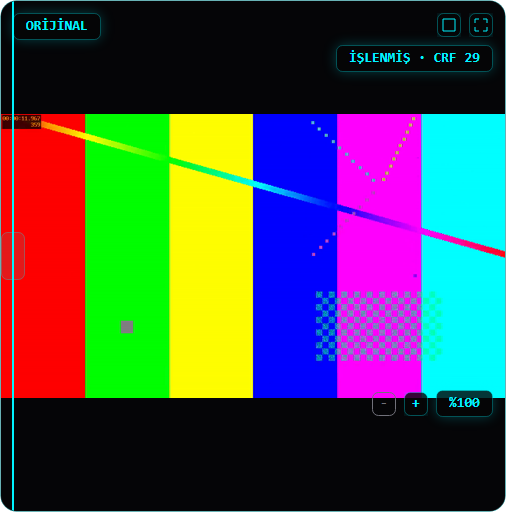
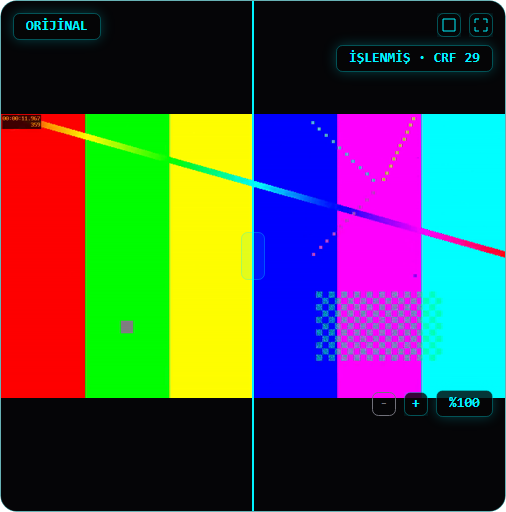
T189 tur 2: ayirici artik ortada, onizleme karesi belirlenimli
K8: ClearEntrance butun RenderTransform'lari siliyordu; karsilastirma panelinin
ayirici konumu giris canlandirmasi degil kalici tasiyici oldugu icin ayirici x=0'a
dusuyordu. Temizlik secici: TranslateTransform tasiyan dugum atlaniyor. Ayni tuzagin
ControlStrip.Thumb ve EncodeCursor yuzleri de kapsandi. Olcu: ayirici x=12 -> x=252,
karenin ortasi 253. On iki tam pencere karesi bayt bayt degismedi.

K9: onizleme beklemesi hic var olmayan bir Image ariyordu, 60 saniyelik ust siniri
doldurup o anki kareyi ciziyordu. Yol (a) secildi: oynatma durdurulup pencerenin son
karesi bekleniyor, sonra RequestAnimationFrame dongusu kapatiliyor. Uc ardisik tam
kosumda on dort karenin de sha256'si ayni. Kosum suresi 2m05 -> 39s.

K10: butun beklemeler Await'ten geciyor, sure dolarsa TimeoutException atiyor;
sessiz zaman asimi kalmadi. .sln borcu ve sonucu olcum belgesine yazildi.

Changed region(s): [[0.0, 0.0, 0.0593, 1.0], [0.4743, 0.375, 0.5336, 1.0], [0.4743, 0.0, 0.504, 0.3438]]

diff --git a/tools/VidShrink.Shot/Program.cs b/tools/VidShrink.Shot/Program.cs
@@ -7,12 +7,14 @@ using Avalonia;
 using Avalonia.Controls;
 using Avalonia.Headless;
 using Avalonia.Layout;
+using Avalonia.Media;
 using Avalonia.Media.Imaging;
 using Avalonia.Threading;
 using Avalonia.VisualTree;
 using VidShrink.App;
 using VidShrink.App.Localization;
 using VidShrink.Core;
+using VidShrink.Core.Playback;
 using VidShrink.Ffmpeg;
 
 namespace VidShrink.Shot;
@@ -90,9 +92,7 @@ public static class Program
                 LoadClip(window, clip);
                 SelectTab(window, "main.tab.shrink");
                 Relayout(window);
-                Pump(() => Named(window, "Preview").GetVisualDescendants()
-                    .OfType<Image>()
-                    .Any(image => image.Source is not null), PanelWaitSeconds);
+                FreezePreview(window);
             }),
 
             Shot(language, outDir, "oynatici", window =>
@@ -124,6 +124,16 @@ public static class Program
         }
 
         return false;
+    }
+
+    /// <summary>
+    /// <see cref="Pump"/>'in bekleyen bicimi. Sure dolarsa cekim yarim kareyle surmez,
+    /// durur: sure asimini yutan bir bekleme bos panel cizip cikis kodunu 0 birakiyordu.
+    /// </summary>
+    private static void Await(Func<bool> until, string what, int seconds = PanelWaitSeconds)
+    {
+        if (!Pump(until, seconds))
+            throw new TimeoutException($"{what}: {seconds} saniyede gelmedi.");
     }
 
     /// <summary>Tum pencereyi cizer.</summary>
@@ -251,11 +261,22 @@ public static class Program
     /// <summary>
     /// Giris canlandirmasi panellere <c>translateY</c> uyguluyor ve bassiz kosumda geri
     /// alinmiyor; her blok on piksel asagida cizilirdi.
+    ///
+    /// <para>Temizlik <b>secici</b>. Giris bicemi degeri <c>TransformOperations</c> olarak
+    /// kuruyor (<c>Themes/Controls.axaml</c>, <c>^.enter</c>), kalici konum tasiyicilari ise
+    /// kod arkasinda tutulan <see cref="TranslateTransform"/> ornekleri: karsilastirma
+    /// panelinin ayiricisi (<c>ComparisonPanel.SeparatorGrip</c>) ile serit tutamagi ve
+    /// kodlama imleci (<c>ControlStrip.Thumb</c>, <c>ControlStrip.EncodeCursor</c>)
+    /// konumlarini bunlardan aliyor. Hepsini birden silmek ayiriciyi panonun soluna,
+    /// x=0'a dusuruyordu; kare kullanicinin hic gormedigi bir durumu gosteriyordu.</para>
     /// </summary>
     private static void ClearEntrance(MainWindow window)
     {
         foreach (var node in window.GetVisualDescendants().OfType<Visual>())
+        {
+            if (node.RenderTransform is TranslateTransform) continue;
             node.RenderTransform = null;
+        }
     }
 
     /// <summary>
@@ -311,13 +332,67 @@ public static class Program
 
         var task = (Task)open.Invoke(player, new object?[] { clip, CancellationToken.None })!;
 
-        if (!Pump(() => task.IsCompleted, PanelWaitSeconds))
-            throw new TimeoutException($"Oynatici klibi {PanelWaitSeconds} saniyede acamadi.");
+        Await(() => task.IsCompleted, "Oynatici klibi acamadi");
 
         task.GetAwaiter().GetResult();
 
-        Pump(() => player.GetVisualDescendants().OfType<Image>().Any(image => image.Source is not null),
-            PanelWaitSeconds);
+        Await(() => player.GetVisualDescendants().OfType<Image>().Any(image => image.Source is not null),
+            "Oynaticinin ilk karesi");
+    }
+
+    /// <summary>
+    /// Sunum sayacinin degismeden gecmesi gereken yoklama sayisi. Yoklama araligi
+    /// <see cref="Pump"/>'te 25 ms; kirk yoklama bir saniye eder ve bassiz kosumun
+    /// yaklasik 5 Hz'lik sunum turundan rahatca uzundur.
+    /// </summary>
+    private const int PreviewIdleTicks = 40;
+
+    /// <summary>
+    /// Onizleme panelini penceresinin <b>son karesinde</b> dondurur.
+    ///
+    /// <para>Eski bekleme "kare gelir gelmez" ciziyordu; hangi alt-kare oldugunu makinenin
+    /// o anki yuku belirliyordu ve ayni ikiliyle yapilan uc kosumun ikincisi farkli bir kare
+    /// uretti. Sayarak da belirlenimli olmuyor: bassiz kosumda sunum turu ~5 Hz, boru 30 fps
+    /// besliyor, aradaki fark kare dusuruyor (olculdu: 150 karenin 69'u dusuruldu) ve hangi
+    /// karenin dusecegi yuke bagli.</para>
+    ///
+    /// <para>Belirlenimli olan tek nokta pencerenin sonu: boru pencereyi bitirdiginde son
+    /// kare halkanin en yenisidir, dusurulmez ve tuketici onu almadan halka bosalmaz. O
+    /// yuzden burada oynatma once <b>durdurulur</b> — <c>PanelHost.Follow</c> yalniz
+    /// oynatilirken sonraki pencereye geciyor, boylece pencere [0, 5) sabit kalir — sonra
+    /// sunum sayaci duruncaya kadar beklenir ve <c>_generation</c> artirilarak
+    /// <c>RequestAnimationFrame</c> dongusu kapatilir; cizime kadar panoya baska kare
+    /// konmaz. Yakalanan kare her kosumda ayni: pencerenin 150. karesi.</para>
+    ///
+    /// <para><c>Controls.IsPlaying</c> dogrudan yaziliyor, dugmeye basilmis gibi degil:
+    /// <c>PanelHost.ApplyPlayState</c> boruyu da duraklatirdi ve pencere hic bitmezdi.</para>
+    /// </summary>
+    private static void FreezePreview(MainWindow window)
+    {
+        var host = FieldValue(window, "_preview")
+            ?? throw new InvalidOperationException("Onizleme barindiricisi kurulmamis.");
+
+        Await(() => Read(host, "SourceStatus") is ComparisonSourceStatus { State: ComparisonSourceState.Oynuyor },
+            "Onizleme borusu");
+
+        SetProperty(Read(Named(window, "Preview"), "Controls"), "IsPlaying", false);
+
+        var last = -1L;
+        var idle = 0;
+        Await(() =>
+        {
+            var frames = (long)Read(host, "PresentedFrames");
+            if (frames != last)
+            {
+                last = frames;
+                idle = 0;
+                return false;
+            }
+
+            return ++idle >= PreviewIdleTicks;
+        }, "Onizleme penceresinin son karesi");
+
+        SetField(host, "_generation", (int)FieldValue(host, "_generation")! + 1);
     }
 
     /// <summary>
@@ -424,6 +499,24 @@ public static class Program
     /// </summary>
     private static void Invoke(object target, string method, params object?[] arguments)
         => Call(target, method, arguments);
+
+    private static FieldInfo FieldOf(object target, string name)
+        => target.GetType().GetField(name, BindingFlags.Instance | BindingFlags.NonPublic | BindingFlags.Public)
+           ?? throw new MissingFieldException(target.GetType().Name, name);
+
+    private static object? FieldValue(object target, string name) => FieldOf(target, name).GetValue(target);
+
+    private static void SetField(object target, string name, object value)
+        => FieldOf(target, name).SetValue(target, value);
+
+    private static PropertyInfo PropertyOf(object target, string name)
+        => target.GetType().GetProperty(name, BindingFlags.Instance | BindingFlags.NonPublic | BindingFlags.Public)
+           ?? throw new MissingMemberException(target.GetType().Name, name);
+
+    private static object Read(object target, string property) => PropertyOf(target, property).GetValue(target)!;
+
+    private static void SetProperty(object target, string property, object value)
+        => PropertyOf(target, property).SetValue(target, value);
 
     private static object Call(object target, string method, params object?[] arguments)
     {

diff --git a/docs/olcumler/ekran-goruntusu.md b/docs/olcumler/ekran-goruntusu.md
@@ -18,8 +18,9 @@ Gerekçe — (b) gerçek pencere yerine (a):
 - Ekran kapısı gerekmiyor. Düzenek kapı kapalıyken de koşar.
 - Sonuç makineden bağımsız: ekran çözünürlüğü, masaüstü ölçeklemesi ve pencere
   yöneticisi kareye karışmıyor. Ölçüsü sabit 1600x1000.
-- Tekrarlanabilir. İki ardışık koşumun on dört karesinin de sha256'sı aynı çıktı
-  (aşağıda ham çıktı).
+- Tekrarlanabilir. Üç ardışık tam koşumun on dört karesinin de sha256'sı aynı çıktı
+  (aşağıda ham çıktı). Tur 1'de bu doğru değildi: önizleme karesi koşumdan koşuma
+  değişiyordu. Sebebi ve düzeltmesi “Tur 2'de düzeltilen iki kusur” başlığında.
 
 Bedeli: kare pencerenin **istemci alanı**; işletim sisteminin pencere gölgesi ve köşe
 yuvarlaması karede yok. Uygulama kendi başlık çubuğunu çizdiği için
@@ -38,24 +39,34 @@ yuvarlaması karede yok. Uygulama kendi başlık çubuğunu çizdiği için
 ### Çekim
 
     $ dotnet run --project tools/VidShrink.Shot
-    klip	C:\Users\Administrator\Desktop\Projeler\Vidshrink\.claude\worktrees\T189\.calisma\T189\klip.mp4
+    klip	C:\Users\Administrator\Desktop\Projeler\Vidshrink\.claude\worktrees\T189t2\.calisma\T189\klip.mp4
     T189-kucult-en.png	368669
     T189-donustur-en.png	361631
     T189-ayarlar-en.png	233923
     T189-gelismis-en.png	432494
     T189-hakkinda-en.png	357185
-    T189-onizleme-en.png	63179
+    T189-onizleme-en.png	62627
     T189-oynatici-en.png	223370
     T189-kucult-tr.png	363894
     T189-donustur-tr.png	361678
     T189-ayarlar-tr.png	232601
     T189-gelismis-tr.png	433466
     T189-hakkinda-tr.png	366178
-    T189-onizleme-tr.png	63165
+    T189-onizleme-tr.png	62600
     T189-oynatici-tr.png	225114
     toplam	14
 
+    real	0m39.128s
+
+Tur 1'de aynı koşum 2 dakika 5 saniye sürüyordu: önizleme beklemesi hiçbir zaman
+gerçekleşmeyen bir koşula bakıyor ve iki dil için de 60 saniyelik üst sınırı doldurup
+sessizce geçiyordu.
+
 ### Süit ve CI
+
+Aşağıdaki iki çıktı **tur 1'e ait**; tur 2 süiti yeniden koşturmadı.
+Bu turun dokunduğu üç dosyanın ikisi belge, üçüncüsü `tools/VidShrink.Shot/Program.cs`
+— düzenek `.sln`de değil, `dotnet test` onu ne derliyor ne koşuyor.
 
     $ dotnet test
     Basarili!  - Basarisiz:     0, Basarili:  1898, Atlanan:    23, Toplam:  1921, Sure: 15 m 56 s - VidShrink.Tests.dll (net8.0)
@@ -89,26 +100,135 @@ panelinin kendi ölçüsünde kesilmiş bir parça — README'de yan yana duraca
     T189-oynatici-en.png 1600 1000
     T189-oynatici-tr.png 1600 1000
 
-### Tekrarlanabilirlik
+### Tekrarlanabilirlik (K9 CHECK)
 
-İki ardışık tam koşum, aynı ikili, farklı çıkış klasörleri. sha256'nın ilk 12 hanesi:
+Üç ardışık tam koşum, aynı ikili, farklı çıkış klasörleri. sha256'nın ilk 12 hanesi:
 
-    T189-ayarlar-en.png 7ccf5b1207fa 7ccf5b1207fa ayni
-    T189-ayarlar-tr.png 01a1cd8ffacb 01a1cd8ffacb ayni
-    T189-donustur-en.png d278e611294e d278e611294e ayni
-    T189-donustur-tr.png fe10bac06c48 fe10bac06c48 ayni
-    T189-gelismis-en.png 9a939670f88c 9a939670f88c ayni
-    T189-gelismis-tr.png af80c77a92ed af80c77a92ed ayni
-    T189-hakkinda-en.png f2c3b1246fec f2c3b1246fec ayni
-    T189-hakkinda-tr.png fb2f244270ed fb2f244270ed ayni
-    T189-kucult-en.png e198b42b0693 e198b42b0693 ayni
-    T189-kucult-tr.png 5047aaa648f2 5047aaa648f2 ayni
-    T189-onizleme-en.png 5f51b70f5cf6 5f51b70f5cf6 ayni
-    T189-onizleme-tr.png 7adbb318834f 7adbb318834f ayni
-    T189-oynatici-en.png 03b62757a8b1 03b62757a8b1 ayni
-    T189-oynatici-tr.png a867cf3cfb67 a867cf3cfb67 ayni
+    T189-kucult-en.png       e198b42b0693 e198b42b0693 e198b42b0693 ayni
+    T189-kucult-tr.png       5047aaa648f2 5047aaa648f2 5047aaa648f2 ayni
+    T189-donustur-en.png     d278e611294e d278e611294e d278e611294e ayni
+    T189-donustur-tr.png     fe10bac06c48 fe10bac06c48 fe10bac06c48 ayni
+    T189-ayarlar-en.png      7ccf5b1207fa 7ccf5b1207fa 7ccf5b1207fa ayni
+    T189-ayarlar-tr.png      01a1cd8ffacb 01a1cd8ffacb 01a1cd8ffacb ayni
+    T189-gelismis-en.png     9a939670f88c 9a939670f88c 9a939670f88c ayni
+    T189-gelismis-tr.png     af80c77a92ed af80c77a92ed af80c77a92ed ayni
+    T189-hakkinda-en.png     f2c3b1246fec f2c3b1246fec f2c3b1246fec ayni
+    T189-hakkinda-tr.png     fb2f244270ed fb2f244270ed fb2f244270ed ayni
+    T189-onizleme-en.png     926ee200a1f1 926ee200a1f1 926ee200a1f1 ayni
+    T189-onizleme-tr.png     3d24b52e68a4 3d24b52e68a4 3d24b52e68a4 ayni
+    T189-oynatici-en.png     03b62757a8b1 03b62757a8b1 03b62757a8b1 ayni
+    T189-oynatici-tr.png     a867cf3cfb67 a867cf3cfb67 a867cf3cfb67 ayni
 
 On dörtte on dört aynı.
+
+## Tur 2'de düzeltilen iki kusur
+
+### 1. Ayırıcı panonun soluna düşüyordu (K8)
+
+`ClearEntrance` ağacın **bütün** `RenderTransform`'larını `null` yapıyordu. Giriş
+canlandırması için doğru, ama karşılaştırma panelinin ayırıcısı canlandırma değil
+**kalıcı konum taşıyıcısı**: `ComparisonPanel` konumu kod arkasında tuttuğu bir
+`TranslateTransform` örneğinden veriyor (`ComparisonPanel.axaml.cs:43,82,282`) ve çizim
+sırası `Settle → Relayout → ClearEntrance` olduğu için temizlik en son konumu siliyordu.
+Teslim edilen kare kullanıcının hiçbir zaman görmediği bir durumu gösteriyordu.
+
+Aynı tuzak `ControlStrip.Thumb` ve `ControlStrip.EncodeCursor` için de geçerli
+(`ControlStrip.axaml.cs:57-58`); bugün görünür etkisi yok çünkü ikisi de başlangıçta
+sıfırda duruyor. Temizlik artık **seçici**: `RenderTransform` değeri
+`TranslateTransform` olan düğüm atlanıyor. Giriş biçemi değeri `TransformOperations`
+olarak kuruyor (`Themes/Controls.axaml`, `^.enter`), dolayısıyla giriş temizliği
+eskisi gibi çalışıyor — kanıtı aşağıdaki iki ölçüm.
+
+**Ölçü: ayırıcının sütunu.** Kare 506x512, ortası 253. Panonun dikey yönde bir renkte
+kalan parlak sütunları (üst %5 – alt %85 aralığının %90'ından fazlası):
+
+Ölçen betik (`.calisma/` altında koşuldu, iş bitince silindi; burada tam metniyle
+duruyor ki sayı yeniden üretilebilsin):
+
+    from PIL import Image
+    im = Image.open(path).convert('RGB'); w, h = im.size; px = im.load()
+    top, bottom = int(h * 0.05), int(h * 0.85)
+    for x in range(w):
+        first = px[x, top]
+        same = sum(1 for y in range(top, bottom)
+                   if sum(abs(a - b) for a, b in zip(px[x, y], first)) < 40
+                   and sum(px[x, y]) > 240)
+        if same > (bottom - top) * 0.9: print(x)
+
+    $ python ayirici.py .calisma/T189/base/T189-onizleme-*.png .calisma/T189/r3/T189-onizleme-*.png
+    .calisma/T189/base/T189-onizleme-en.png	olcu=506x512	orta=253	dikey-cizgi-sutunlari=[0, 12, 13, 505]
+    .calisma/T189/base/T189-onizleme-tr.png	olcu=506x512	orta=253	dikey-cizgi-sutunlari=[0, 12, 13, 505]
+    .calisma/T189/r3/T189-onizleme-en.png	olcu=506x512	orta=253	dikey-cizgi-sutunlari=[0, 252, 253, 505]
+    .calisma/T189/r3/T189-onizleme-tr.png	olcu=506x512	orta=253	dikey-cizgi-sutunlari=[0, 252, 253, 505]
+
+`base` değişiklikten önceki koşum, `r3` sonraki. 0 ve 505 panonun kendi kenarları. Ayırıcı x=12'den x=252'ye taşındı; `_split = 0.5`'in
+karşılığı tam olarak burada.
+
+**Ölçü: giriş temizliği bozulmadı.** Değişiklikten önceki ve sonraki koşumun on iki
+tam pencere karesi bayt bayt aynı — seçici temizlik hiçbir giriş dönüşümünü ayakta
+bırakmamış. Yalnız iki önizleme karesi değişti:
+
+    T189-kucult-en.png       eski=e198b42b0693 yeni=e198b42b0693 ayni
+    T189-kucult-tr.png       eski=5047aaa648f2 yeni=5047aaa648f2 ayni
+    T189-donustur-en.png     eski=d278e611294e yeni=d278e611294e ayni
+    T189-donustur-tr.png     eski=fe10bac06c48 yeni=fe10bac06c48 ayni
+    T189-ayarlar-en.png      eski=7ccf5b1207fa yeni=7ccf5b1207fa ayni
+    T189-ayarlar-tr.png      eski=01a1cd8ffacb yeni=01a1cd8ffacb ayni
+    T189-gelismis-en.png     eski=9a939670f88c yeni=9a939670f88c ayni
+    T189-gelismis-tr.png     eski=af80c77a92ed yeni=af80c77a92ed ayni
+    T189-hakkinda-en.png     eski=f2c3b1246fec yeni=f2c3b1246fec ayni
+    T189-hakkinda-tr.png     eski=fb2f244270ed yeni=fb2f244270ed ayni
+    T189-oynatici-en.png     eski=03b62757a8b1 yeni=03b62757a8b1 ayni
+    T189-oynatici-tr.png     eski=a867cf3cfb67 yeni=a867cf3cfb67 ayni
+
+### 2. Önizleme karesi koşumdan koşuma değişiyordu (K9)
+
+Seçilen yol (a): çekim gerçekten belirlenimli hale getirildi, iddia geri alınmadı.
+
+Eski bekleme `Preview` ağacında kaynağı dolu bir `Image` arıyordu. **Böyle bir
+`Image` hiç yok**: karşılaştırma paneli kareyi `ComparisonSurface.Render` içinde tek bir
+`WriteableBitmap`'ten çiziyor. Koşul hiçbir zaman doğru olmuyor, bekleme 60 saniyelik
+üst sınırı dolduruyor ve o an panoda hangi kare varsa o çiziliyordu.
+
+Saymak da belirlenimli değil. Başsız koşumda sunum turu (`RequestAnimationFrame`)
+ölçüldü: saniyede ~5 kare sunuluyor, boru 30 fps besliyor ve aradaki fark kare
+düşürüyor. Aynı anda pencere de ilerliyor — `[0,5)` biterken `[5,10)`'a geçiliyor ve
+sunum sayacı sıfırlanıyor. Yoklamanın çıktısından üç satır — `ComparisonSourceStatus`
+kaydının okunmayan alanları (`FeedFps`, `ReadErrors`, `PoolAllocations`, mesajlar) ve
+`PreviewClip`'in yol alanları satır boyu için atıldı, sayılar olduğu gibi:
+
+    probe frames=25 State = Oynuyor, ProducedFrames = 150, DroppedFrames = 69 clip=StartSeconds = 0, EndSeconds = 5
+    probe frames=1  State = Oynuyor, ProducedFrames = 1,   DroppedFrames = 0  clip=StartSeconds = 5, EndSeconds = 10
+    probe frames=18 State = Durdu,   ProducedFrames = 150, DroppedFrames = 81 clip=StartSeconds = 7, EndSeconds = 12
+
+Belirlenimli olan tek nokta pencerenin **sonu**: son kare halkanın en yenisi olduğu için
+düşürülmüyor ve tüketici onu almadan halka boşalmıyor. `FreezePreview` şunu yapıyor:
+
+1. Boru `Oynuyor` durumuna gelene kadar bekler.
+2. `Controls.IsPlaying`'i **doğrudan** `false` yapar. `PanelHost.Follow` yalnız
+   oynatılırken sonraki pencereye geçiyor; böylece pencere `[0,5)` sabit kalıyor.
+   Düğmeye basılmış gibi değil, çünkü `ApplyPlayState` boruyu da duraklatırdı ve
+   pencere hiç bitmezdi.
+3. Sunum sayacı bir saniye boyunca değişmeyene kadar bekler — pencere bitmiş,
+   halka boşalmıştır.
+4. `_generation`'ı artırıp `RequestAnimationFrame` döngüsünü kapatır; çizime kadar
+   panoya başka kare konmaz.
+
+Yakalanan kare her koşumda aynı: pencerenin 150. karesi. Üç koşumluk tablo yukarıda.
+
+### Borçlar (K10)
+
+1. **Sessiz zaman aşımı kapatıldı.** `Pump`'ın `bool` dönüşü yutuluyordu: 60 saniyede
+   kare gelmezse boş panel çizilip çıkış kodu 0 kalıyordu. Artık bütün beklemeler
+   `Await` üzerinden geçiyor ve süre dolarsa `TimeoutException` atıyor — `OpenInPlayer`
+   zaten öyle yapıyordu, iki yol artık tutarlı.
+2. **Düzenek `.sln`e eklenmedi.** Gerekçesi `AGENTS.md:39`'da yazılı: CI'a
+   `Avalonia.Headless` taşınmıyor. **Sonucu:** K1'in CHECK'i (`dotnet build
+   tools/VidShrink.Shot`) hiçbir otomatik koşumda çalışmıyor; düzenek yalnız elle
+   derleniyor ve kırıldığında CI sessiz kalır. Bu tur çözülmedi, borç olarak duruyor.
+3. **Karelerdeki arayüz kusurları T192'nin işi.** `T189-kucult-tr.png`'de “Video
+   Kodegi” ile “Ses” sütun başlıkları üst üste biniyor ve “Kare Hızı D...” kırpılıyor.
+   Kare kusuru gizlemiyor; düzeltme arayüzde yapılacak.
 
 ## Karelerde ne var
 

diff --git a/tools/VidShrink.Shot/AGENTS.md b/tools/VidShrink.Shot/AGENTS.md
@@ -36,4 +36,17 @@ Masaüstünde saniyenin üçte biri süren geçişler başsız koşumda hiç bit
 üyeleri `internal`/`private` ve görünürlük yalnız `VidShrink.Tests`'e açık; üretim kodunu
 bu araç için genişletmemek adına yansımayla çağrılıyor.
 
-`.sln`e eklenmedi; CI'a Avalonia.Headless taşımaz.
+## Önizleme karesi belirlenimli
+
+Karşılaştırma paneli canlı bir borudan besleniyor; "kare gelir gelmez çiz" koşumdan
+koşuma farklı alt-kare yakalıyordu. `FreezePreview` bunun yerine oynatmayı durdurup
+pencerenin **son** karesini bekliyor: son kare halkanın en yenisi olduğu için
+düşürülmüyor. Yakalanan kare her koşumda aynı — üç koşumluk sha256 tablosu
+`docs/olcumler/ekran-goruntusu.md` içinde.
+
+Bekleme süreleri de sessiz değil: süre dolarsa `Await` `TimeoutException` atar,
+yarım kare teslim edilmez.
+
+`.sln`e eklenmedi; CI'a Avalonia.Headless taşımaz. Sonucu: `dotnet build
+tools/VidShrink.Shot` hiçbir otomatik koşumda çalışmıyor, düzenek yalnız elle
+derleniyor.
